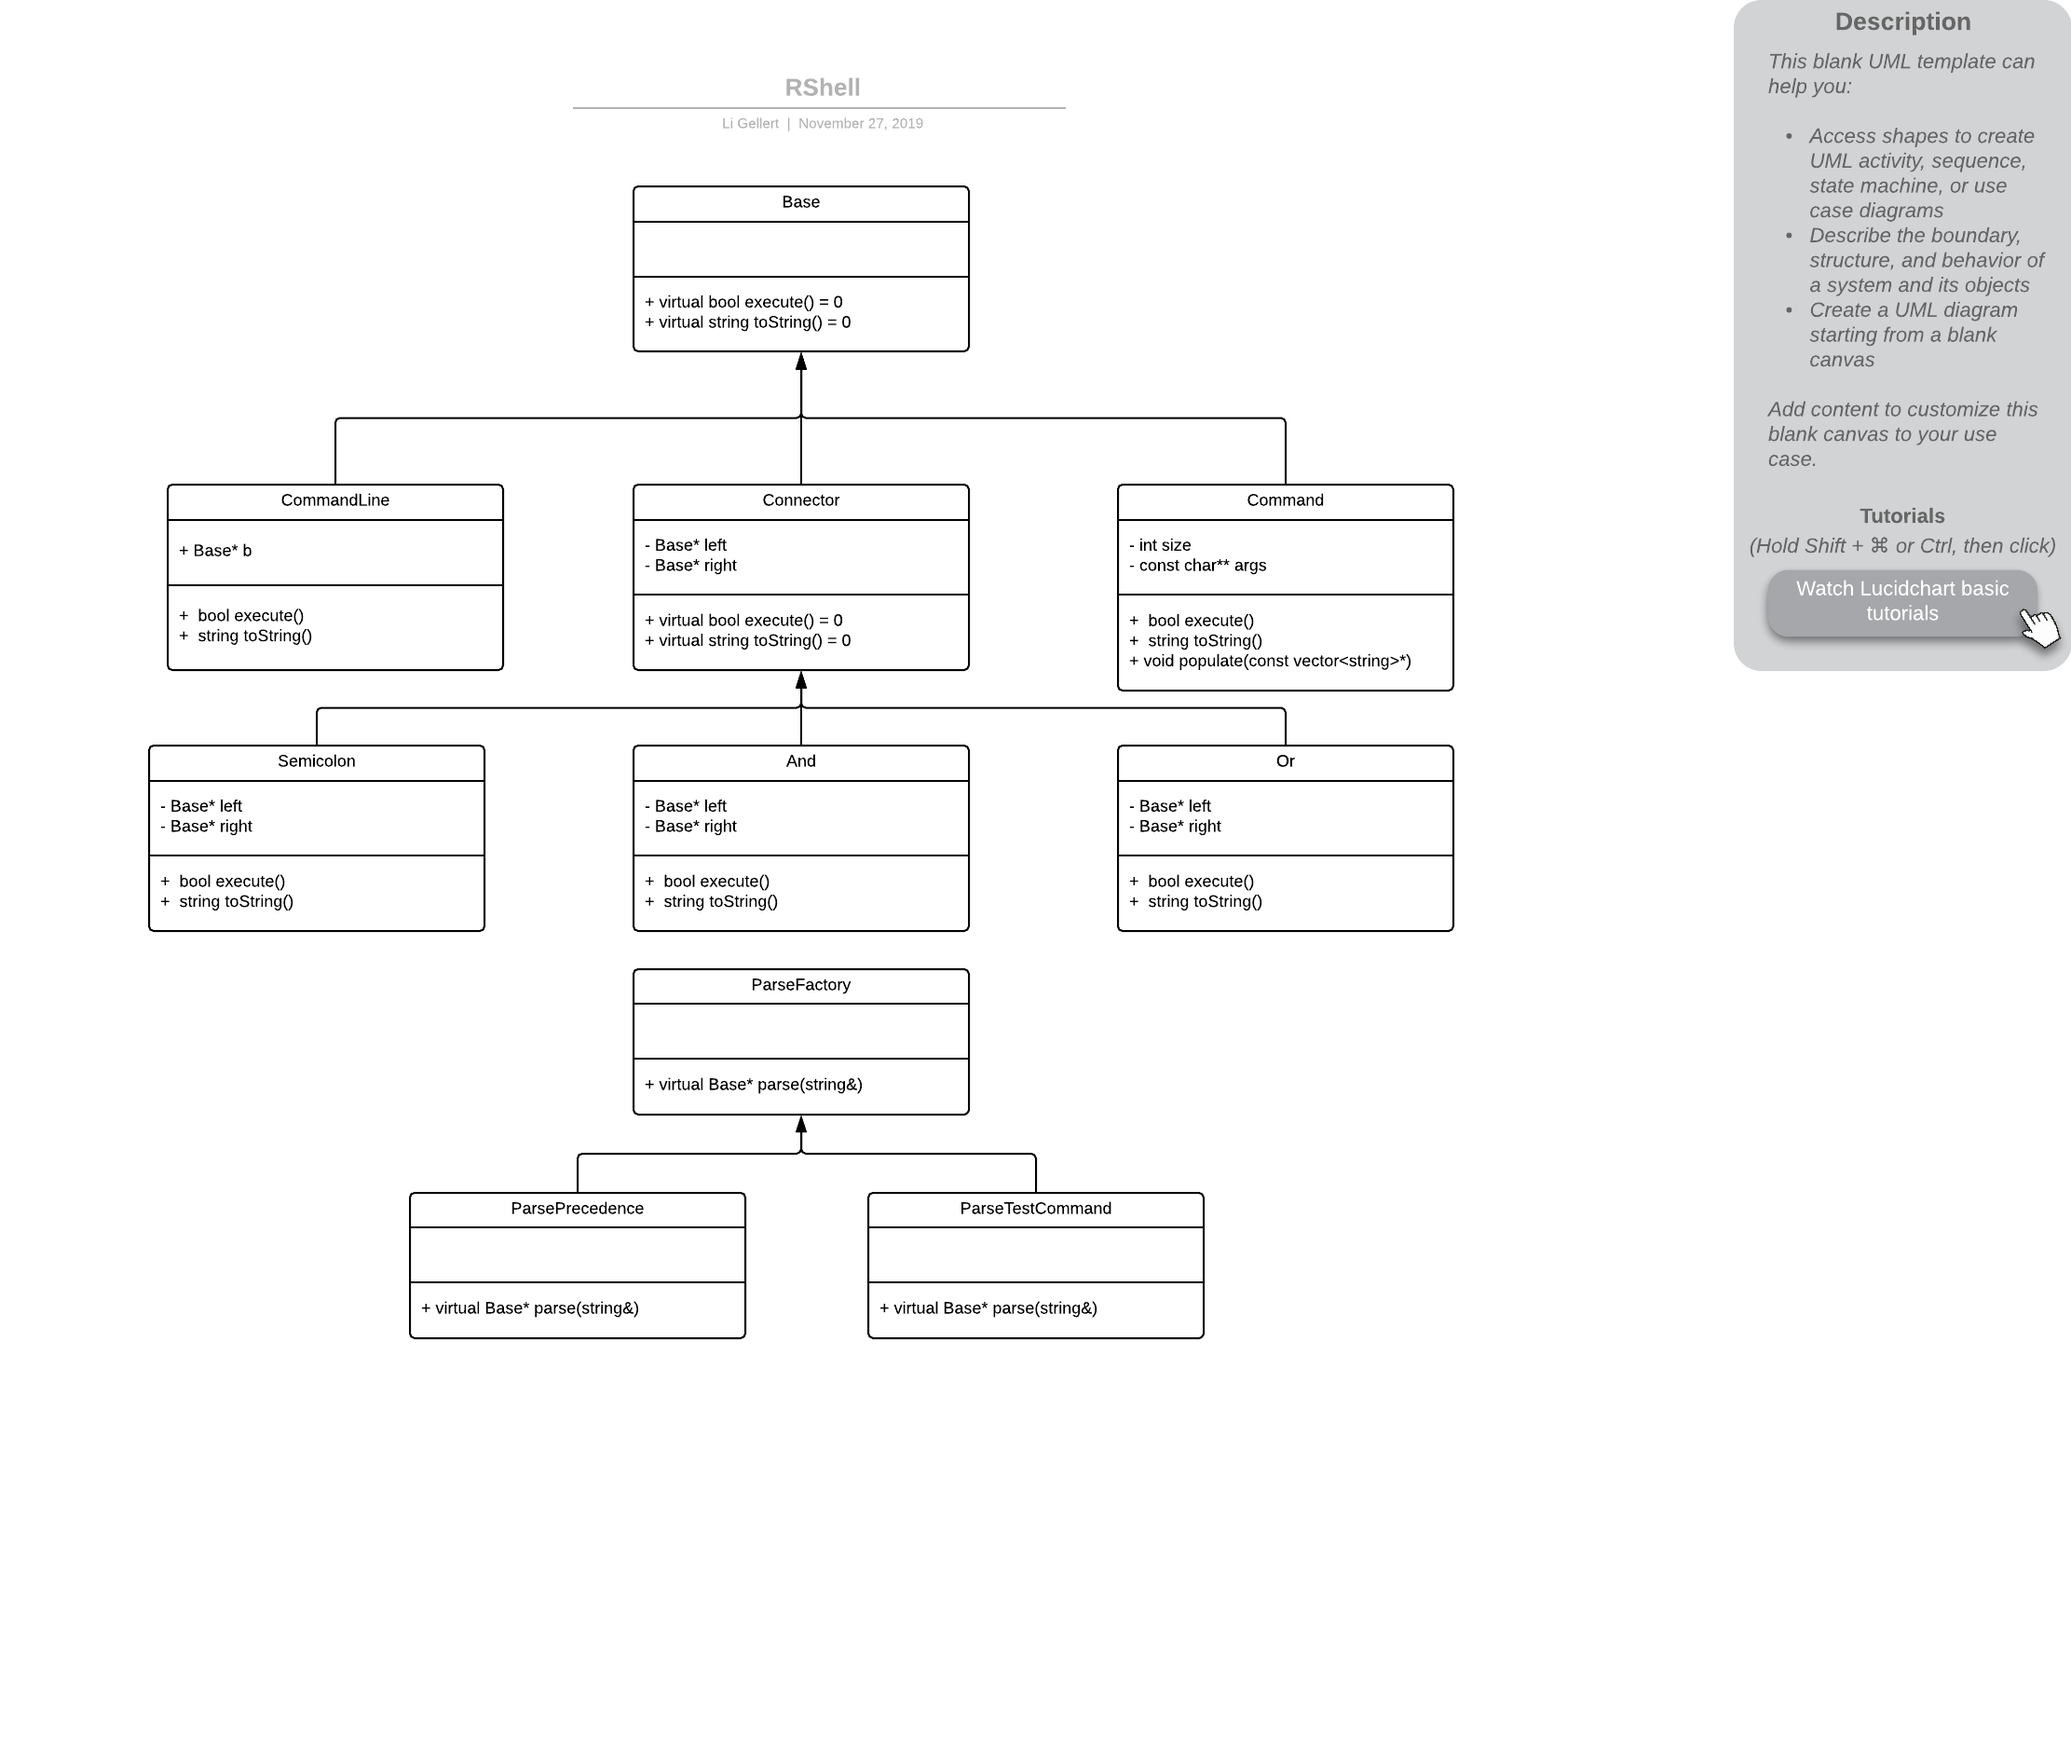
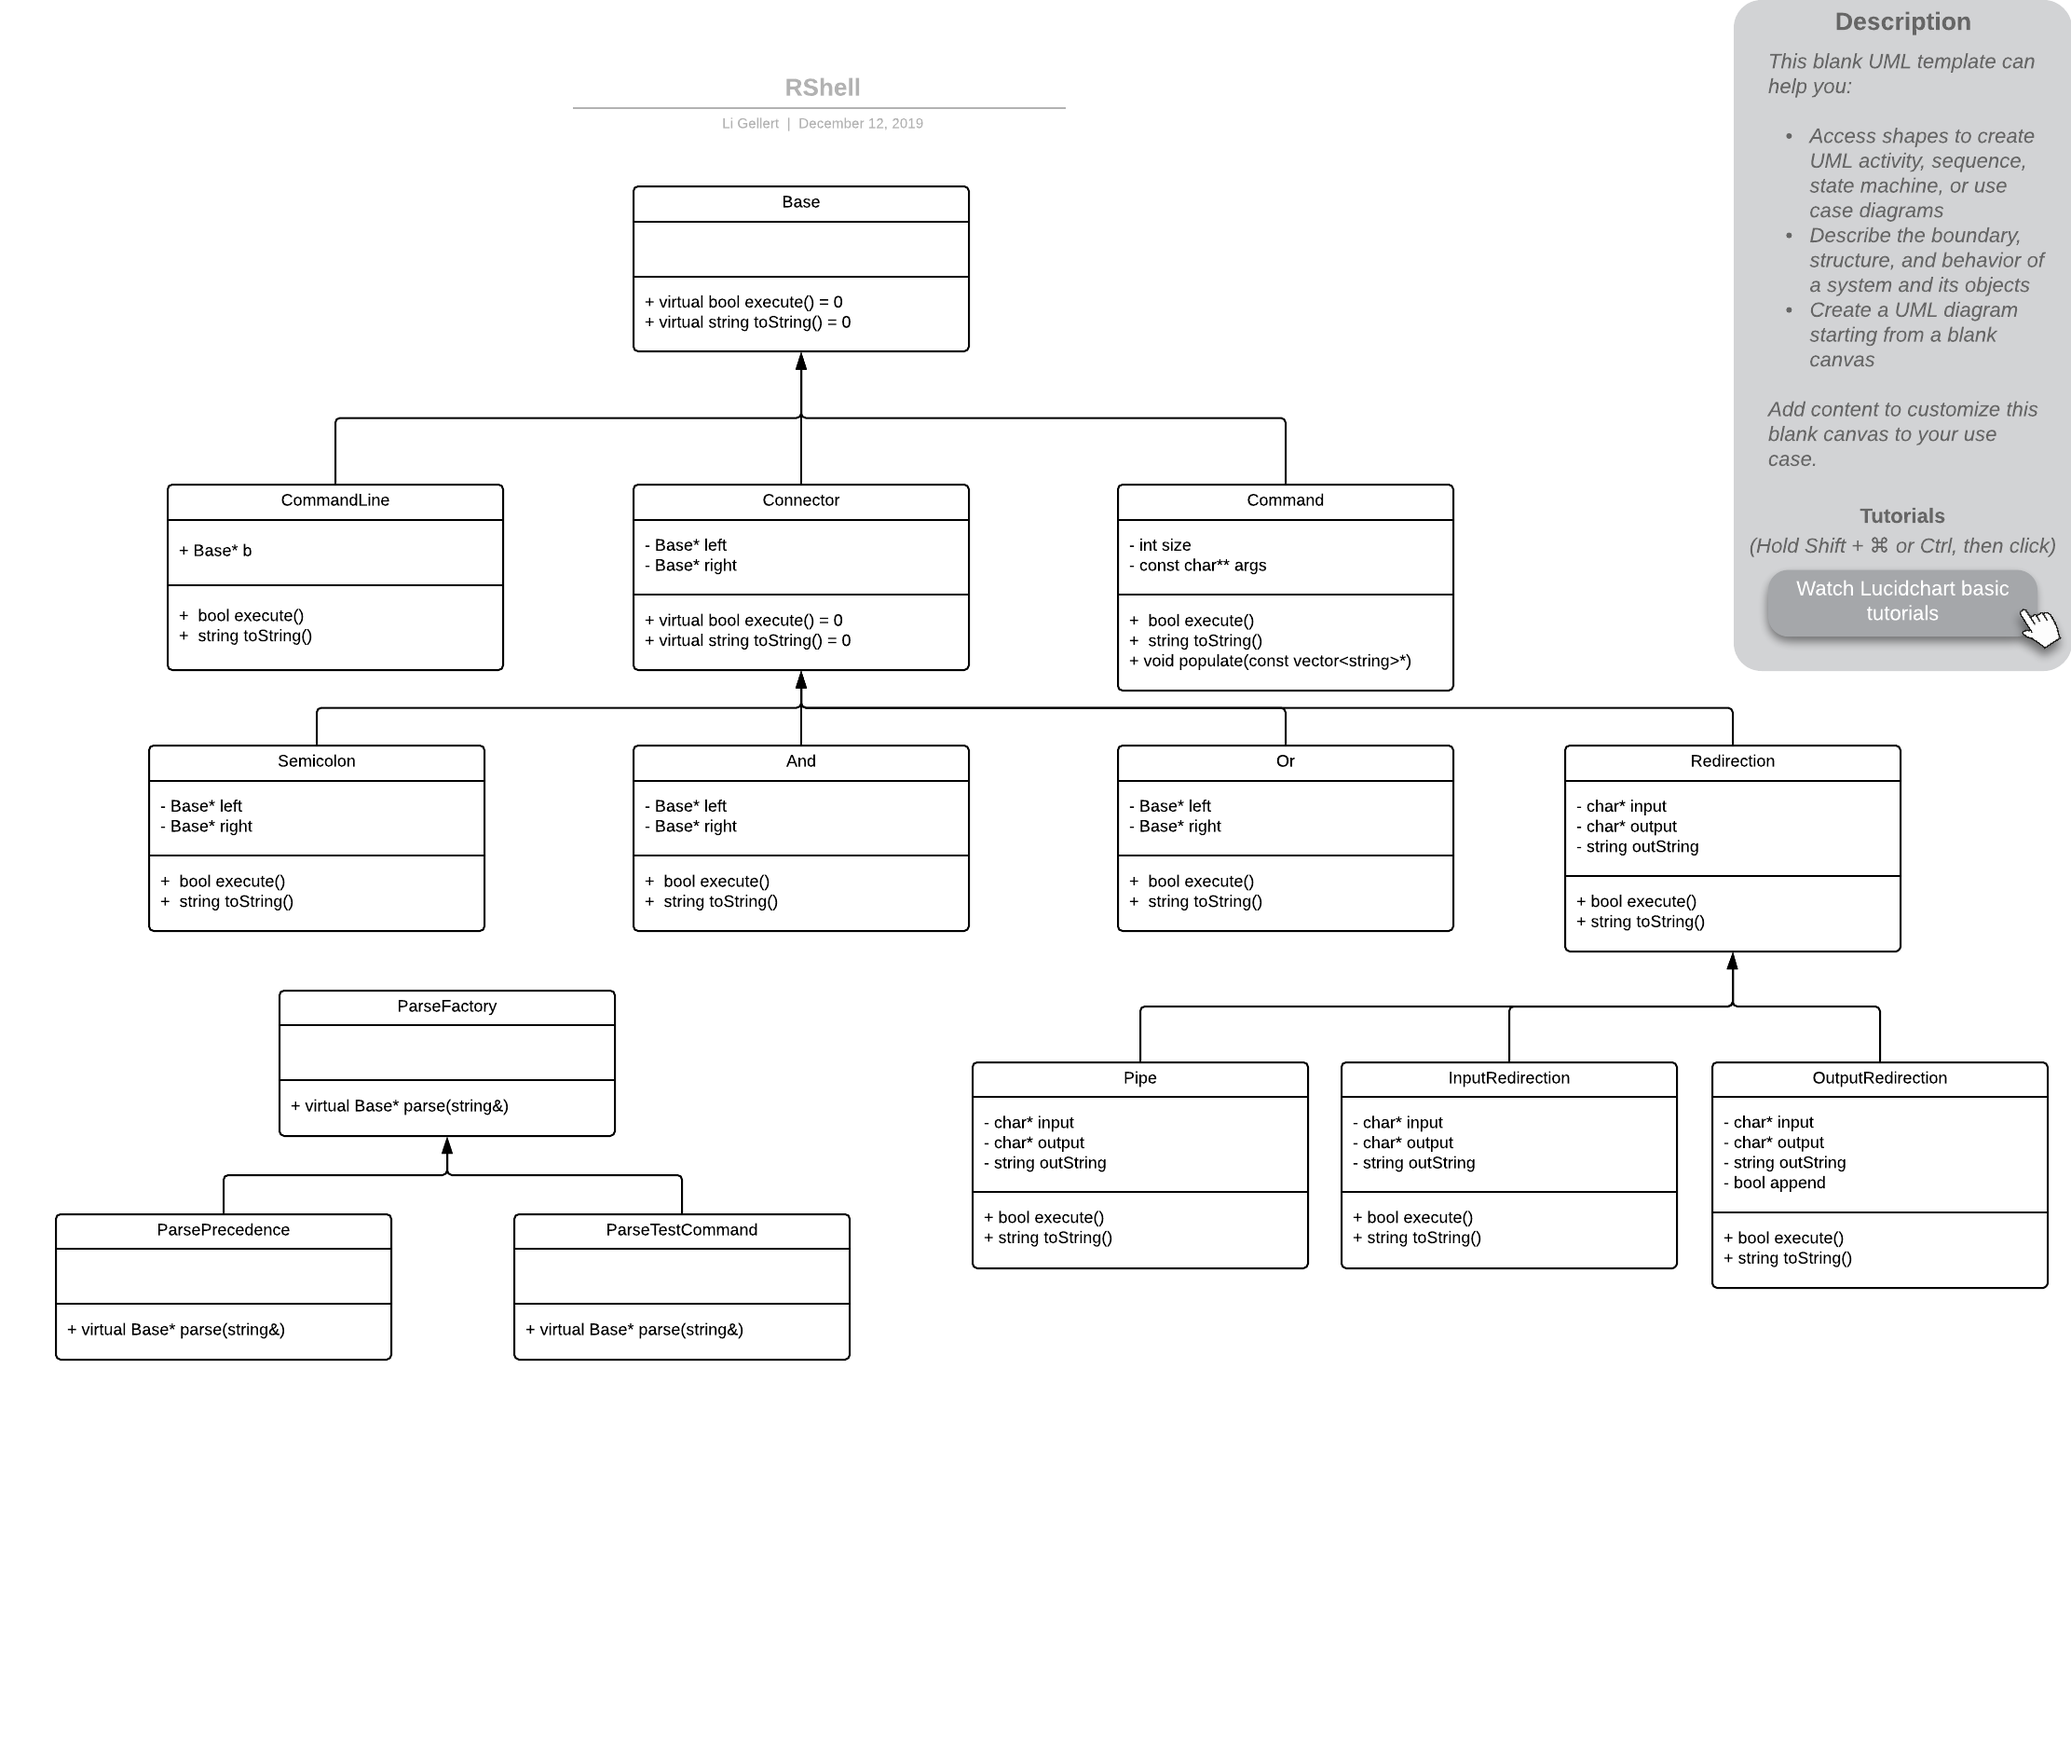
updated readme

diff --git a/README.md b/README.md
@@ -42,6 +42,15 @@ This class has a `char**` which contains the command argument, and it will be po
 An abstract factory base class for parsing usre input into either a regular command such as 'ls -a'<br>
 or to a test command such as '[ -e /path/to/file ]'
 
+## InputRedirect
+Handling input redirect, using <. 
+
+## OutputRedirect
+Handling output redirect, using >. It has a flag stating whether user should replace or append the output.
+
+## Pipe
+Piping the output from previous command to the next command.
+
 
 # Prototype/Research
 Since the shell program constantly involves user input, we don't want to block the main thread while waiting for user input, or waiting for some commands finishing execution. <br>
